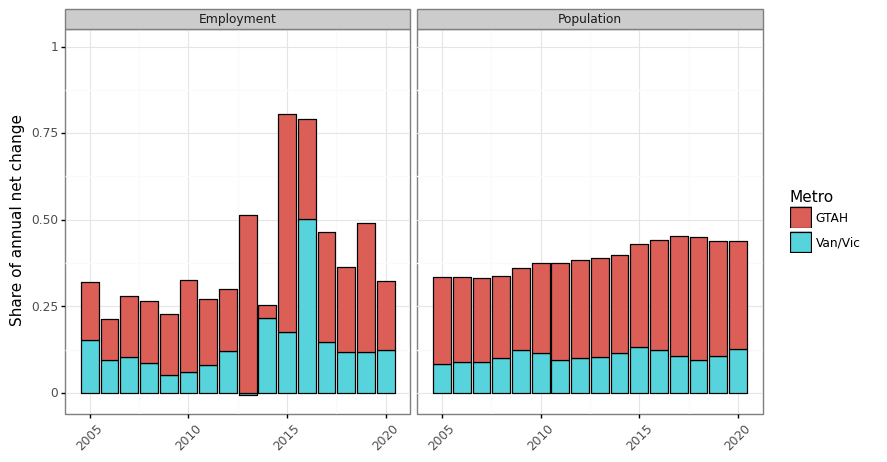
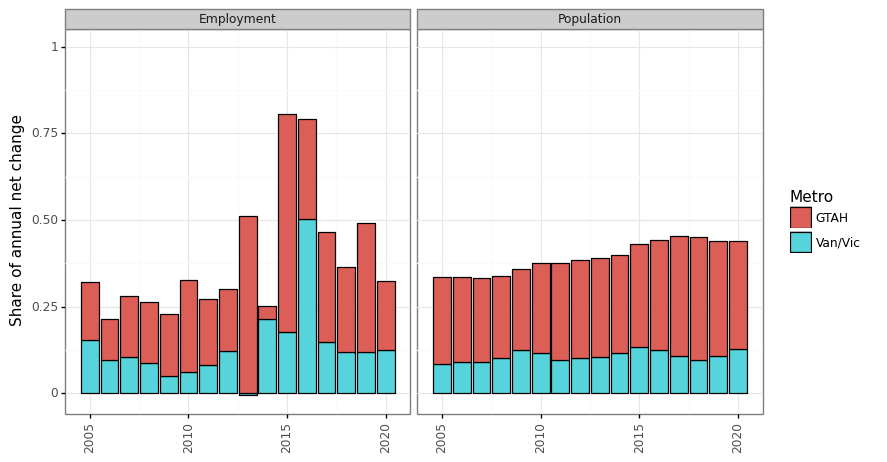
slight change to figures

diff --git a/2_make_figs.py b/2_make_figs.py
@@ -109,7 +109,7 @@ gg_tera_other = (ggplot(tera_other,aes(x='date',y='value',color='tt')) +
     theme_bw() + geom_line() + 
     facet_wrap('~name',nrow=2) + 
     labs(y='Index (100==Initial point)') + 
-    theme(axis_title_x=element_blank(),axis_text_x=element_text(angle=45)) + 
+    theme(axis_title_x=element_blank(),axis_text_x=element_text(angle=90)) + 
     scale_x_datetime(date_breaks='5 years',date_labels='%Y') + 
     scale_color_discrete(name='Measure'))
 gg_save('gg_tera_other.png', dir_figures, gg_tera_other, 12, 5)
@@ -267,7 +267,7 @@ gg_lf_share = (ggplot(tmp,aes(x='date',weight='share',fill='metro')) +
           scale_y_continuous(limits=[-0.01,1]) + 
           labs(y='Share of annual net change') + 
           scale_x_datetime(date_breaks='5 years',date_labels='%Y') + 
-          theme(axis_title_x=element_blank(),axis_text_x=element_text(angle=45)) + 
+          theme(axis_title_x=element_blank(),axis_text_x=element_text(angle=90)) + 
           scale_fill_discrete(name='Metro'))
 gg_save('gg_lf_share.png',dir_figures,gg_lf_share,9,5)
 
@@ -299,7 +299,8 @@ dividend = dividend.reset_index().assign(dividend=lambda x: x.dividend*(12/x.n))
 dividend = dividend.assign(pct=lambda x: x.dividend/x.price)
 # Group into quartiles of average rate
 tmp_qq = dividend.groupby('ticker').pct.mean().sort_values()
-qq_seq = ['q4','q3','q2','q1']
+# qq_seq = ['q4','q3','q2','q1']
+qq_seq = ['q1','q2','q3','q4']
 di_qq = dict(zip(qq_seq,[q.replace('q','Quartile ') for q in qq_seq]))
 tmp_qq = pd.qcut(tmp_qq,4,labels=qq_seq).reset_index().rename(columns={'pct':'q4'})
 tmp_qq.q4 = pd.Categorical(tmp_qq.q4,np.sort(qq_seq))
@@ -310,6 +311,8 @@ gg_arate_dividend = (ggplot(dividend,aes(x='year',y='pct',group='ticker',color='
     theme_bw() + geom_line() + geom_point(size=0.5) + 
     scale_y_continuous(limits=[0,0.2],labels=percent_format()) + 
     labs(y='Annual dividend rate') + 
+    theme(axis_title_x=element_blank()) + 
+    scale_color_discrete(name='Type') + 
     ggtitle('sum(dividends)/average(open price)\nDividends extrapolated for incomplete years') + 
     facet_wrap('~q4',labeller=labeller(q4=di_qq)))
 gg_save('gg_arate_dividend.png',dir_figures,gg_arate_dividend,8,6)
@@ -404,9 +407,10 @@ tmp = pd.DataFrame({'date':pd.to_datetime('2017-01-01'),'y':110,'label':'TSX'},i
 
 gg_reit_idx = (ggplot(reit_index,aes(x='date',y='budget',color='msr')) + 
     theme_bw() + geom_line() + labs(y='Index value') + 
+    scale_color_discrete(name='Index') + 
     geom_line(aes(x='date',y='tsx'),color='black',data=df_cpi_tsx) + 
     geom_text(aes(x='date',y='y',label='label'),data=tmp,color='black') + 
-    theme(axis_title_x=element_blank(),axis_text_x=element_text(angle=45)) + 
+    theme(axis_title_x=element_blank(),axis_text_x=element_text(angle=0)) + 
     scale_x_datetime(date_breaks='5 years',date_labels='%Y'))
 gg_save('gg_reit_idx.png',dir_figures,gg_reit_idx,7,4.5)
 
